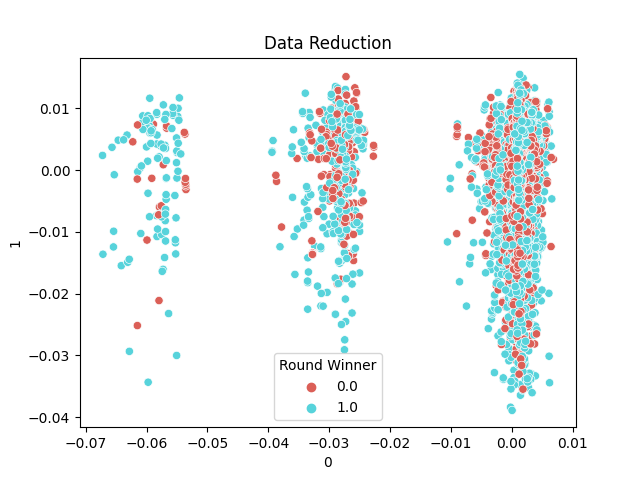
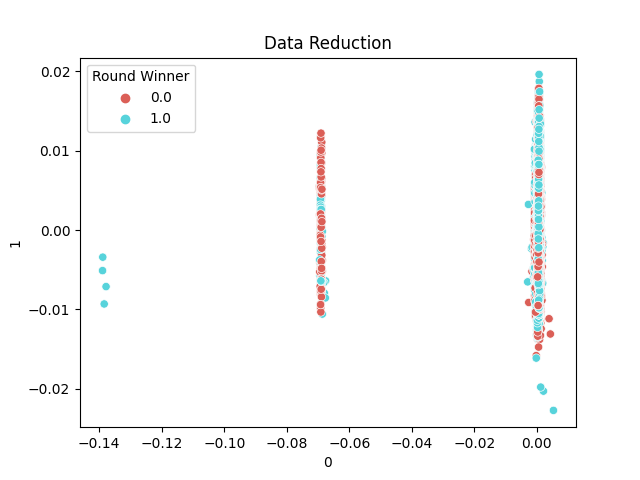
begin ICA

diff --git a/unsupervised_learning_dim_reduction/ICA.py b/unsupervised_learning_dim_reduction/ICA.py
@@ -68,14 +68,14 @@ if __name__ == '__main__':
 
     loan_data, loan_labels  = get_loan_defualt()
 
-    # ica_reconstruction_metrics(cs_go_data,range(2,51),'csgo')
+    # ica_reconstruction_metrics(cs_go_data,range(2,89),'csgo')
 
     # ica_reconstruction_metrics(loan_data,range(2,11),'loan')
 
-    # ica_experiment(cs_go_data,cs_go_labels,40,'csgo')
+    # ica_experiment(cs_go_data,cs_go_labels,86,'csgo')
 
-    # ica_experiment(loan_data,loan_labels,8,'loan')
+    # ica_experiment(loan_data,loan_labels,9,'loan')
 
-    ica_evaluate(cs_go_data,cs_go_labels,'csgo',dr_components=10,kmeans_clusters=4,gmm_components=4)
+    ica_evaluate(cs_go_data,cs_go_labels,'csgo',dr_components=86,kmeans_clusters=4,gmm_components=4)
 
-    ica_evaluate(loan_data,loan_labels,'loan',dr_components=8,kmeans_clusters=9,gmm_components=11)
+    ica_evaluate(loan_data,loan_labels,'loan',dr_components=9,kmeans_clusters=9,gmm_components=11)

diff --git a/unsupervised_learning_dim_reduction/NN.py b/unsupervised_learning_dim_reduction/NN.py
@@ -21,8 +21,8 @@ class NN:
 
     def __init__(self) -> None:
         self.dr_algorithms = {
-            'pca': PCA(n_components=40),
-            'ica': FastICA(n_components=40),
+            'pca': PCA(n_components=50),
+            'ica': FastICA(n_components=86),
             'rp': GaussianRandomProjection(n_components=50),
             'lda': LinearDiscriminantAnalysis()
         }
